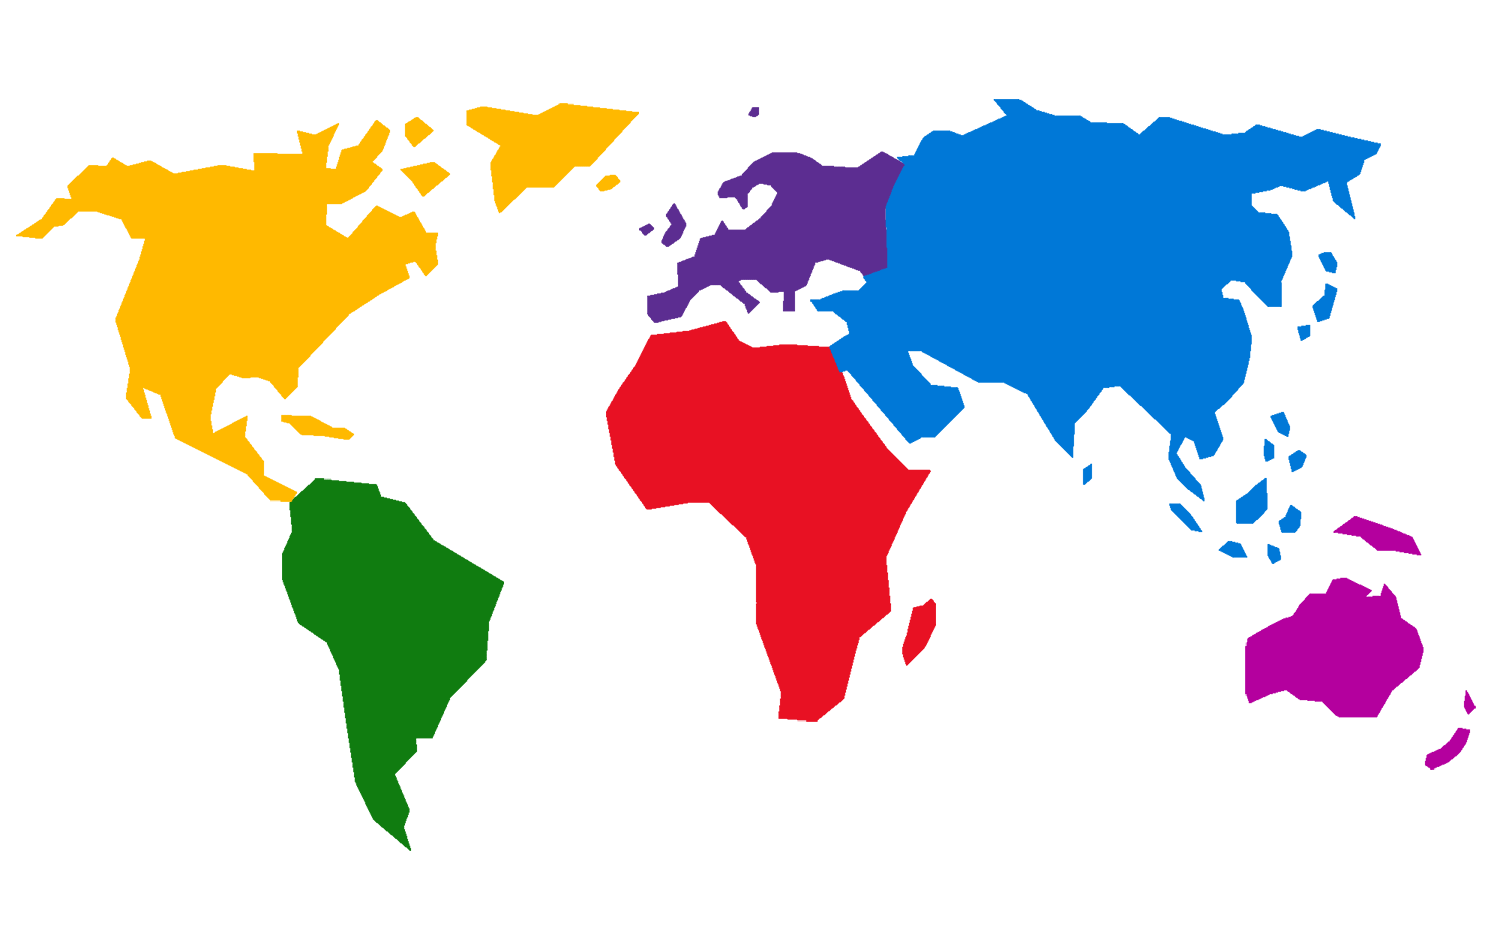
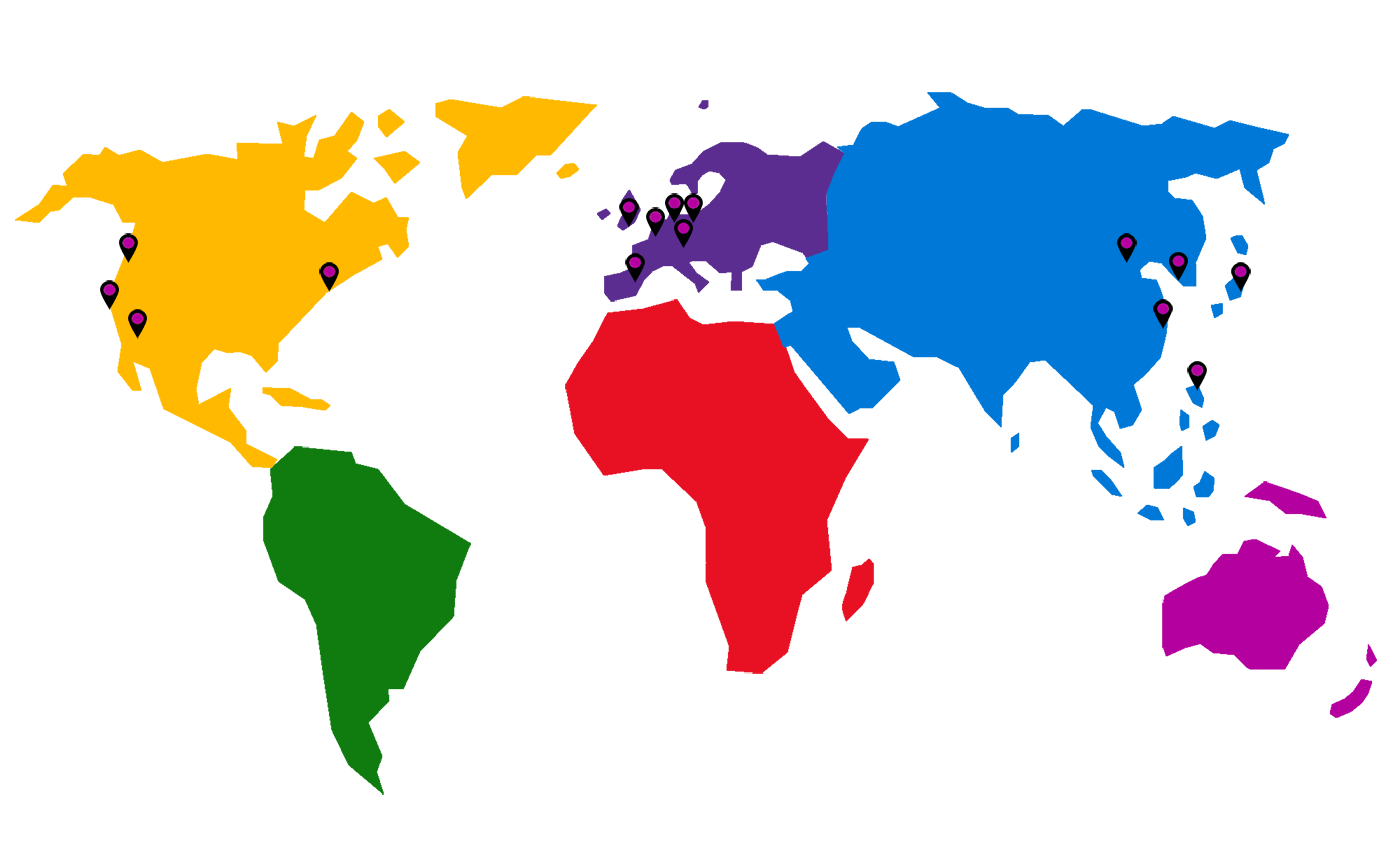
make clickable pointers map for cities

diff --git a/views/world-map.html b/views/world-map.html
@@ -105,17 +105,133 @@
 			<h1>Find an Event Near You</h1>
 			</section>
 			<section class="col_12">
-			<p>Microsoft Plugfests & Events happen around the world. Whether you're in China and want to build Add-Ins for Word or you're in Africa and want to learn more about SQL, there's an event for you. Just click on your region below and check out the events in your area.</p>
-			<img src="../img/world-map.png" alt="" usemap="#Map" />
-			<map name="Map" id="Map">
-    		<area alt="South America" title="South America" href="#" shape="poly" coords="376,769,397,831,437,859,451,890,473,1041,498,1093,549,1136,540,1105,549,1079,530,1032,558,1002,557,984,578,986,600,931,649,881,653,828,673,776,580,720,544,670,509,663,502,643,427,636,387,668,390,707,377,735" />
-    		<area alt="North America" title="North America" href="#" shape="poly" coords="384,667,360,668,330,633,232,586,214,527,190,517,201,558,188,558,165,530,172,490,154,423,193,318,175,318,159,291,130,283,102,282,84,300,71,303,56,320,19,314,53,290,76,260,93,265,89,246,119,217,142,220,149,208,173,220,200,213,235,231,292,218,339,227,338,204,402,204,398,172,421,179,453,163,439,193,437,223,446,225,456,200,474,192,501,159,520,172,541,165,556,154,577,174,623,146,644,142,716,154,747,137,851,149,790,220,808,232,819,230,827,241,820,252,800,255,796,245,806,235,786,223,768,221,742,252,703,250,667,284,660,268,652,216,667,194,620,165,623,154,575,181,554,196,577,215,601,231,567,261,549,242,535,228,571,217,552,198,539,182,541,169,520,176,513,201,501,216,511,225,494,250,477,262,457,272,434,272,436,299,463,316,501,272,533,289,553,281,570,308,587,309,580,327,585,351,570,370,553,350,542,354,549,371,469,418,399,489,397,516,395,552,414,552,443,570,462,570,473,579,466,588,441,585,416,580,402,582,384,564,373,564,374,549,393,554,390,523,381,534,357,507,340,502,322,506,307,498,288,517,282,554,286,575,332,553,329,581,352,611,353,629,396,654" />
-    		<area alt="Europe" title="Europe" href="#" shape="poly" coords="901,382,883,390,862,393,862,417,872,430,907,423,923,398,932,389,946,380,960,380,992,405,998,420,1012,402,1004,395,987,375,1008,373,1028,389,1045,389,1044,416,1063,414,1061,389,1078,382,1086,349,1104,345,1143,358,1152,368,1182,358,1181,270,1205,219,1176,200,1148,220,1101,221,1080,209,1063,202,1033,203,1011,209,991,232,965,241,956,253,961,265,978,263,990,279,997,276,999,258,1012,245,1026,247,1034,258,1016,288,993,303,972,305,962,293,953,312,932,317,923,340,916,299,909,289,897,271,888,284,894,298,887,309,871,304,866,295,853,304,861,314,870,308,888,312,883,321,892,328,913,307,921,345,904,351" />
-    		<area alt="Africa" title="Africa" href="#" shape="poly" coords="805,548,820,619,866,680,915,670,945,670,993,712,1006,751,1007,830,1039,923,1038,956,1092,963,1126,931,1148,851,1188,819,1201,864,1209,888,1229,866,1248,840,1248,805,1240,799,1230,808,1216,807,1205,850,1187,806,1183,740,1241,625,1212,624,1134,528,1124,500,1106,461,1056,456,1006,463,985,453,968,427,919,440,868,444,845,491" />
-    		<area alt="Asia" title="Asia" href="#" shape="poly" coords="1108,460,1128,496,1215,591,1228,582,1247,582,1286,541,1277,517,1243,511,1219,486,1212,469,1227,468,1306,512,1337,509,1370,524,1408,587,1433,611,1444,625,1447,648,1457,638,1457,617,1446,625,1431,604,1435,563,1472,517,1493,514,1560,578,1557,610,1570,637,1574,671,1560,671,1561,679,1588,707,1604,710,1586,683,1577,669,1578,647,1606,668,1627,731,1644,744,1663,744,1698,753,1708,746,1708,728,1709,712,1728,710,1736,703,1736,681,1726,673,1722,628,1736,625,1744,609,1733,599,1720,610,1719,582,1721,569,1713,547,1695,554,1704,575,1718,587,1700,592,1688,584,1685,599,1689,617,1699,612,1701,601,1717,611,1720,671,1717,683,1704,693,1708,707,1705,730,1692,723,1691,735,1696,750,1664,742,1655,727,1671,699,1692,679,1691,637,1667,652,1652,668,1649,697,1667,699,1652,723,1639,721,1634,726,1605,660,1604,646,1587,625,1570,604,1582,583,1593,588,1600,610,1619,609,1633,586,1621,549,1658,514,1666,476,1672,451,1654,401,1633,397,1629,385,1643,374,1661,377,1690,408,1708,410,1731,436,1734,456,1749,448,1749,433,1758,430,1772,425,1784,384,1780,364,1785,352,1776,339,1766,336,1758,343,1769,363,1777,363,1781,384,1768,377,1766,392,1751,409,1756,424,1745,433,1736,436,1711,406,1708,376,1725,341,1719,307,1705,285,1681,283,1670,274,1670,262,1694,255,1712,247,1739,256,1772,244,1779,272,1810,294,1798,244,1815,232,1820,211,1836,203,1845,191,1758,171,1738,182,1674,165,1661,175,1637,178,1561,156,1548,156,1520,178,1501,162,1455,164,1442,152,1410,155,1389,149,1359,130,1325,131,1342,151,1284,178,1267,172,1248,172,1232,179,1219,207,1199,209,1209,218,1186,358,1155,365,1147,388,1128,386,1098,396,1083,398,1093,417,1108,415,1126,427,1129,444" />
-    		<area alt="Oceania" title="Oceania" href="#" shape="poly" coords="1741,791,1722,819,1663,848,1668,937,1713,919,1732,931,1761,934,1786,957,1835,955,1903,1003,1900,1017,1911,1025,1933,1017,1945,1007,1957,988,1961,974,1958,953,1969,943,1954,920,1951,942,1955,947,1957,971,1947,969,1936,982,1925,995,1909,1000,1840,952,1853,921,1891,891,1898,867,1891,837,1870,823,1862,793,1847,777,1837,795,1822,796,1831,788,1795,769,1776,772,1780,711,1810,715,1835,733,1857,734,1896,740,1885,717,1807,686,1780,703,1773,777,1768,789" />
-    		[...]
-			</map>
+				<p>Microsoft Plugfests & Events happen around the world. Whether you're in China and want to build Add-Ins for Word or you're in Africa and want to learn more about SQL, there's an event for you. Just click on your region below and check out the events in your area.</p>
+				<img src="../img/world-map.png" alt="" usemap="#Map" />
+				<map name="Map" id="Map">
+  			<area alt="Redmond, WA" title="Redmond, WA" href="#" class="tooltip pointer" data-content="#redmond" shape="poly" coords="130,262,121,249,119,238,127,233,138,238,138,247,129,260" />
+  			<area alt="Santa Clara, CA" title="Santa Clara, CA" href="#" class="tooltip" data-content="#santaclara" shape="poly" coords="111,314,105,300,101,289,108,280,116,283,118,294,114,304,111,307" />
+  			<area alt="Las Vegas, NV" title="Las Vegas, NV" href="#" class="tooltip pointer" data-content="#lasvegas" shape="poly" coords="136,333,129,320,135,309,146,311,149,320,143,330,140,340" />
+  			<area alt="Cambridge, MA" title="Cambridge, MA" href="#" class="tooltip pointer" data-content="#cambridge" shape="poly" coords="322,281,321,265,331,262,339,272,336,284,332,297" />
+  			<area alt="London, UK" title="London, UK"  href="#" class="tooltip pointer"  data-content="#london" shape="poly" coords="628,225,622,213,625,199,638,204,637,215" />
+  			<area alt="Zaragoza, Spain" title="Zaragoza, Spain"  href="#" class="tooltip pointer"  data-content="#zaragoza" shape="poly" coords="638,288,628,269,628,256,642,254,647,266" />
+  			<area alt="Göttingen, Germany" title="Göttingen, Germany"  href="#" class="tooltip pointer"  data-content="#gottingen" shape="poly" coords="673,215,666,202,674,193,683,197,683,211,677,220" />
+  			<area alt="Brussels, Belgium" title="Brussels, Belgium"  href="#" class="tooltip pointer"  data-content="#brussels" shape="poly" coords="657,238,648,222,651,208,663,209,662,228" />
+  			<area alt="Berlin, Germany" title="Berlin, Germany"  href="#" class="tooltip pointer"  data-content="#berlin" shape="poly" coords="695,222,688,210,686,199,693,194,701,197,701,212" />
+  			<area alt="Munich, Germany" title="Munich, Germany"  href="#" class="tooltip pointer"  data-content="#munich" shape="poly" coords="687,249,678,237,674,226,687,220,695,229" />
+  			<area alt="Seoul, Korea" title="Seoul, Korea"  href="#" class="tooltip pointer"  data-content="#seoul" shape="poly" coords="1181,280,1172,264,1175,253,1184,252,1187,270" />
+  			<area alt="Tokyo, Japan" title="Tokyo, Japan"  href="#" class="tooltip pointer"  data-content="#tokyo" shape="poly" coords="1242,295,1232,277,1231,264,1242,260,1255,267,1250,282" />
+  			<area alt="Shanghai, China" title="Shanghai, China"  href="#" class="tooltip pointer"  data-content="#shanghai" shape="poly" coords="1164,327,1156,316,1154,303,1166,297,1174,304,1173,320" />
+  			<area alt="Beijing, China" title="Beijing, China"  href="#" class="tooltip pointer"  data-content="#beijing" shape="poly" coords="1126,262,1117,246,1121,233,1127,228,1137,237,1135,252" />
+  			<area alt="Taipei, Taiwan" title="Taipei, Taiwan"  href="#" class="tooltip pointer"  data-content="#taipei" shape="poly" coords="1200,390,1189,375,1187,364,1199,358,1209,364,1210,372,1202,381" />
+  			<div class="tooltip-content" id="redmond">
+  				<h3>Redmond, WA</h3>
+					<ul>
+						<li><h5><a href="https://channel9.msdn.com/Events/Open-Specifications-Plugfests/Redmond-Interoperability-Protocols-Plugfest-2015">Redmond Interoperability Protocols Plugfest 2015</a></h5></li>
+						<li><h5><a href="https://channel9.msdn.com/Events/Open-Specifications-Plugfests/RDP-Protocols-Plugfest-2014">RDP Protocols Plugfest 2014</a></h5></li>
+						<li><h5><a href="https://channel9.msdn.com/Events/Open-Specifications-Plugfests/Redmond-Interoperability-Protocols-Plugfest-2014">Redmond Interoperability Protocols Plugfest 2014</a></h5></li>
+						<li><h5><a href="https://channel9.msdn.com/Events/Open-Specifications-Plugfests/Redmond-Interoperability-Protocols-Plugfest-2013">Redmond Interoperability Protocols Plugfest 2013</a></h5></li>
+						<li><h5><a href="https://channel9.msdn.com/Events/Open-Specifications-Plugfests/Windows-Identity-and-Exchange-Protocols-Plugfest-2012">Windows Identity and Exchange Protocols Plugfest 2012</a></h5></li>
+						<li><h5><a href="https://channel9.msdn.com/Events/Open-Specifications-Plugfests/Odata-Meetup-2012">OData Meetup 2012</a></h5></li>
+						<li><h5><a href="https://msdn.microsoft.com/en-us/openspecifications/dn767917#tile=event091809">Document Interoperability Initiative (DII) Workshop on MCE</a></h5></li>
+						<li><h5><a href="https://msdn.microsoft.com/en-us/openspecifications/dn786371#tile=event102308">DII Workshop</a></h5></li>
+						<li><h5><a href="https://msdn.microsoft.com/en-us/openspecifications/dn786371#tile=event073108">DII Workshop on on ODF 1.1 </a></h5></li>
+					</ul>
+				</div>
+				<div class="tooltip-content" id="santaclara">
+  				<h3>Santa Clara, CA</h3>
+					<ul>
+						<li><h5><a href="">Storage Developer Conference 2014</a></h5></li>
+						<li><h5><a href="http://www.snia.org/events/storage-developer2013/presentation">Storage Developer Conference 2013</a></h5></li>
+						<li><h5><a href="http://www.snia.org/events/storage-developer2012/presentations12">Storage Developer Conference 2012</a></h5></li>
+						<li><h5><a href="http://www.snia.org/events/storage-developer2011">Storage Developer Conference 2011</a></h5></li>
+					</ul>
+				</div>
+				<div class="tooltip-content" id="lasvegas">
+  				<h3>Las Vegas, NV</h3>
+					<ul>
+						<!-- <img src="http://www.interop.com/sites/default/files/styles/homepage_slider_style/public/ILV15_1504150_Sliders_ItsAWrap-741x325_0.jpg?itok=jqQtdk8o" /> -->
+						<li><h5><a href="http://www.interop.com/lasvegas/">Interop.com 2012</a></h5></li>
+					</ul>
+				</div>
+				<div class="tooltip-content" id="cambridge">
+  				<h3>Cambridge, MA</h3>
+					<ul>
+						<li><h5><a href="http://www.kerberos.org/events/2011conf-interop/">2011 Kerberos Conference and Interop Event</a></h5></li>
+					</ul>
+				</div>
+				<div class="tooltip-content" id="london">
+  				<h3>London, UK</h3>
+					<ul>
+						<li><h5><a href="https://msdn.microsoft.com/en-us/openspecifications/dn767917#tile=event051809">DII Workshop on the Fraunhofer FOKUS Validator</a></h5></li>
+					</ul>
+				</div>
+				<div class="tooltip-content" id="zaragoza">
+  				<h3>London, UK</h3>
+					<ul>
+						<li><h5><a href="http://www.protocolsplugfest.com/europe/">Protocols Plugfest Europe 2015</a></h5></li>
+					</ul>
+				</div>
+				<div class="tooltip-content" id="gottingen">
+  				<h3>Göttingen, Germany</h3>
+					<ul>
+						<li><h5><a href="http://www.sambaxp.org/">sambaXP 2015</a></h5></li>
+						<li><h5><a href="http://www.sambaxp.org/">sambaXP 2012</a></h5></li>
+					</ul>
+				</div>
+				<div class="tooltip-content" id="brussels">
+  				<h3>Brussels, Belgium</h3>
+					<ul>
+						<li><h5><a href="https://msdn.microsoft.com/en-us/openspecifications/dn767917#tile=event111209">Document Interoperability Initiative (DII) Workshop</a></h5></li>
+						<li><h5><a href="https://msdn.microsoft.com/en-us/openspecifications/dn786371#tile=event120208">Document Interoperability Initiative (DII) Workshop on Translators</a></h5></li>
+					</ul>
+				</div>
+				<div class="tooltip-content" id="berlin">
+  				<h3>Berlin, Germany</h3>
+					<ul>
+						<li><h5><a href="https://msdn.microsoft.com/en-us/openspecifications/dn767917#tile=event063009">Document Interoperability Initiative (DII) Workshop</a></h5></li>
+					</ul>
+				</div>
+				<div class="tooltip-content" id="munich">
+  				<h3>Munich, Germany</h3>
+					<ul>
+						<li><h5><a href="https://msdn.microsoft.com/en-us/openspecifications/dn786371#tile=event061008">DII Workshop on Accessibility</a></h5></li>
+					</ul>
+				</div>
+				<div class="tooltip-content" id="seoul">
+  				<h3>Seoul, Korea</h3>
+					<ul>
+						<li><h5><a href="https://msdn.microsoft.com/en-us/openspecifications/dn786371#tile=event031208">DII Workshop on Translation</a></h5></li>
+					</ul>
+				</div>
+				<div class="tooltip-content" id="tokyo">
+  				<h3>Tokyo, Japan</h3>
+					<ul>
+						<li><h5><a href="https://msdn.microsoft.com/en-us/openspecifications/dn786371#tile=event073008">DII Workshop by wipse (Windows + Services Consortium)</a></h5></li>
+					</ul>
+				</div>
+				<div class="tooltip-content" id="shanghai">
+  				<h3>Shanghai, China</h3>
+					<ul>
+						<li><h5><a href="https://channel9.msdn.com/Events/Open-Specifications-Plugfests/Shanghai-Interoperability-Protocols-Seminar-2013">Shanghai Interoperability Protocols Seminar 2013</a></h5></li>
+					</ul>
+				</div>
+				<div class="tooltip-content" id="beijing">
+  				<h3>Beijing, China</h3>
+					<ul>
+						<li><h5><a href="http://connect.microsoft.com/site216/Downloads/DownloadDetails.aspx?DownloadID=57585">Beijing Interop Seminar 2015</a></h5></li>
+						<li><h5><a href="https://msdn.microsoft.com/en-us/openspecifications/dn768081#tile=event022510">Document Interoperability Initiative (DII) Event</a></h5></li>
+						<li><h5><a href="https://msdn.microsoft.com/en-us/openspecifications/dn767917#tile=event052509">DII Workshop on Open XML / UOF Translator</a></h5></li>
+					</ul>
+				</div>
+				<div class="tooltip-content" id="taipei">
+  				<h3>Taipei, Taiwan</h3>
+					<ul>
+						<li><h5><a href="https://channel9.msdn.com/Events/Open-Specifications-Plugfests/Taipei-Interoperability-Plugfest-and-Server-TechFest-2015">Taipei Interoperability Plugfest and Server TechFest 2015</a></h5></li>
+						<li><h5><a href="https://channel9.msdn.com/Events/Open-Specifications-Plugfests/Taipei-Interoperability-Protocols-Plugfest-2014">Taipei Interoperability Protocols Plugfest 2014</a></h5></li>
+						<li><h5><a href="https://channel9.msdn.com/Events/Open-Specifications-Plugfests/Taipei-Interoperability-Protocols-Plugfest-2013">Taipei Interoperability Protocols Plugfest 2013</a></h5></li>
+						<li><h5><a href="https://channel9.msdn.com/Events/Open-Specifications-Plugfests/Taipei-Communication-Protocols-Plugfest-2012">Taipei Communication Protocols Plugfest 2012</a></h5></li>
+					</ul>
+				</div>
 			</section>
 			<section class="col_12 scroll-button">
 				<i class="fa fa-chevron-up fa-3x"><p>Back to Top</p></i>

diff --git a/js/custom.js b/js/custom.js
@@ -163,5 +163,18 @@ $(document).ready(function () {
 
  	$('img[usemap]').rwdImageMaps();
 
+ 	//position tooltips on map
 
+ 	var locateTip = function (e) {
+ 		console.log('X posion : ', e.pageX, 'Y position : ', e.pageY);
+		$('#tiptip_holder').css('margin-top', (e.pageY - 100));
+  	$('#tiptip_holder').css('margin-left', (e.pageX - 100));
+  	$('#tiptip_holder').css('max-width', '100%');
+  	$('#tiptip_arrow').css('display', 'none');
+ 	}
+
+ 	$('.pointer').hover(locateTip);
+ 	// $('#santaclara-pointer').hover(locateTip);
+ 	// $('#lasvegas-pointer').hover(locateTip);
+ 	
 })

diff --git a/css/tiptip.css b/css/tiptip.css
@@ -27,6 +27,14 @@ box-shadow: 0 0 3px #555;
 *background:#212121;
 }
 
+#tiptip_content a {
+	color: #fff;
+}
+
+#tiptip_content a:hover {
+	color: #008272;
+}
+
 #tiptip_arrow, #tiptip_arrow_inner {
 position: absolute;
 border-color: transparent;

diff --git a/css/custom.css b/css/custom.css
@@ -37,6 +37,10 @@ body {
     padding-top: 38.28%; /
 }*/
 
+.tooltip-content {
+	background-color: #fff !important;
+}
+
 .individual-homepage-expert {
 	display:inline-block;
 	position:relative;
